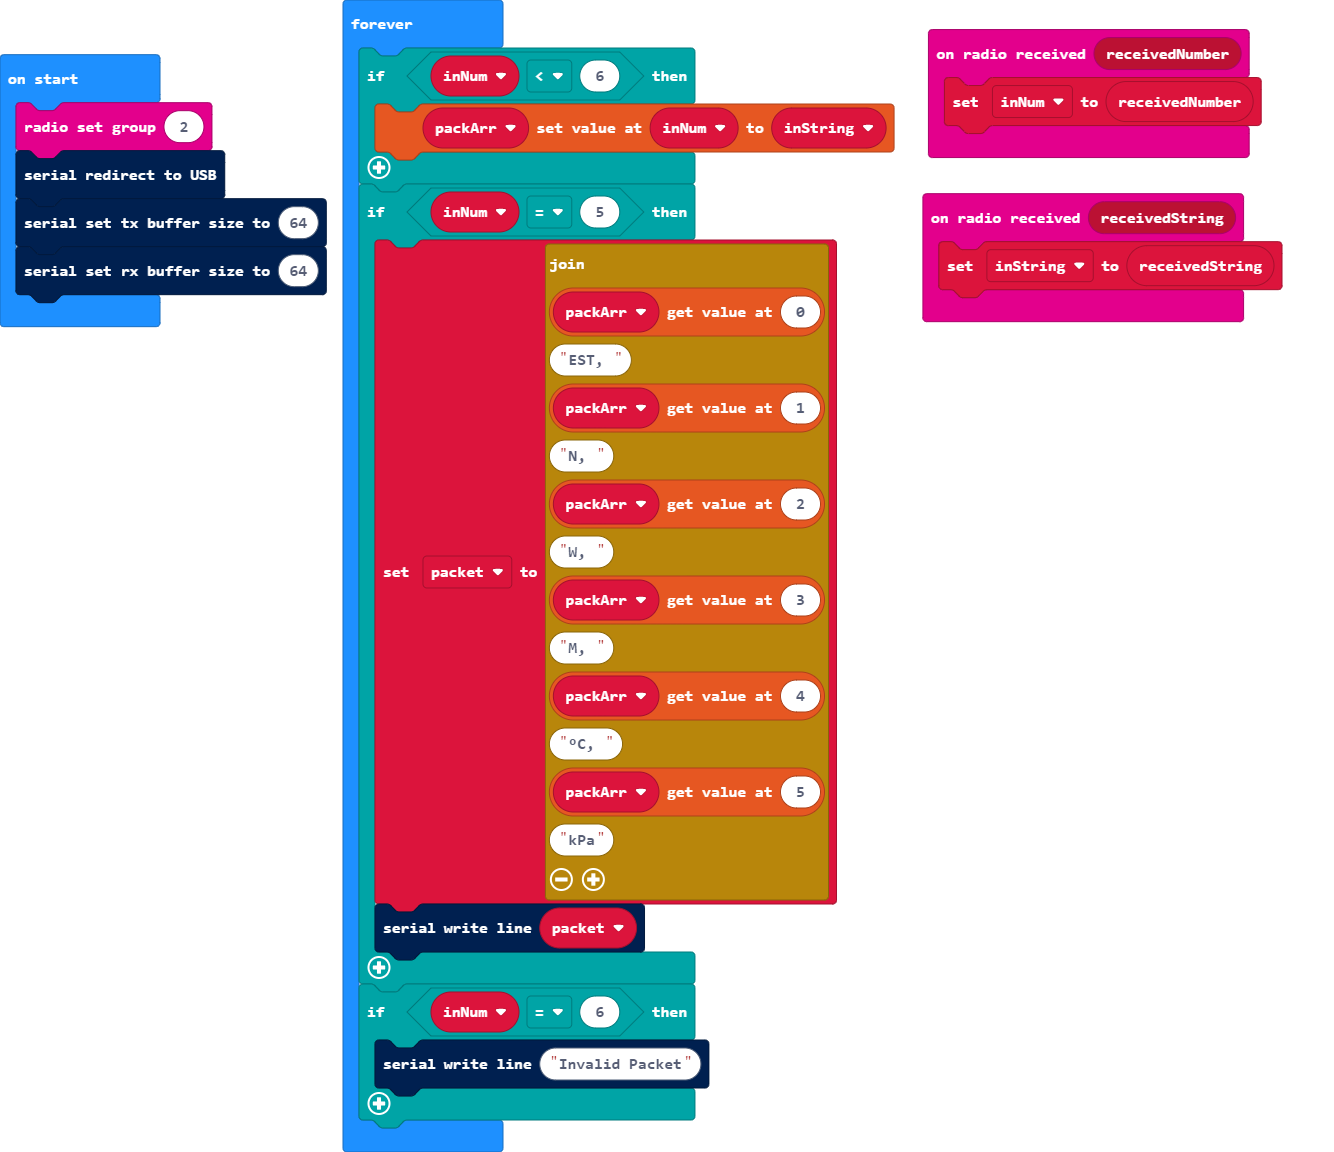
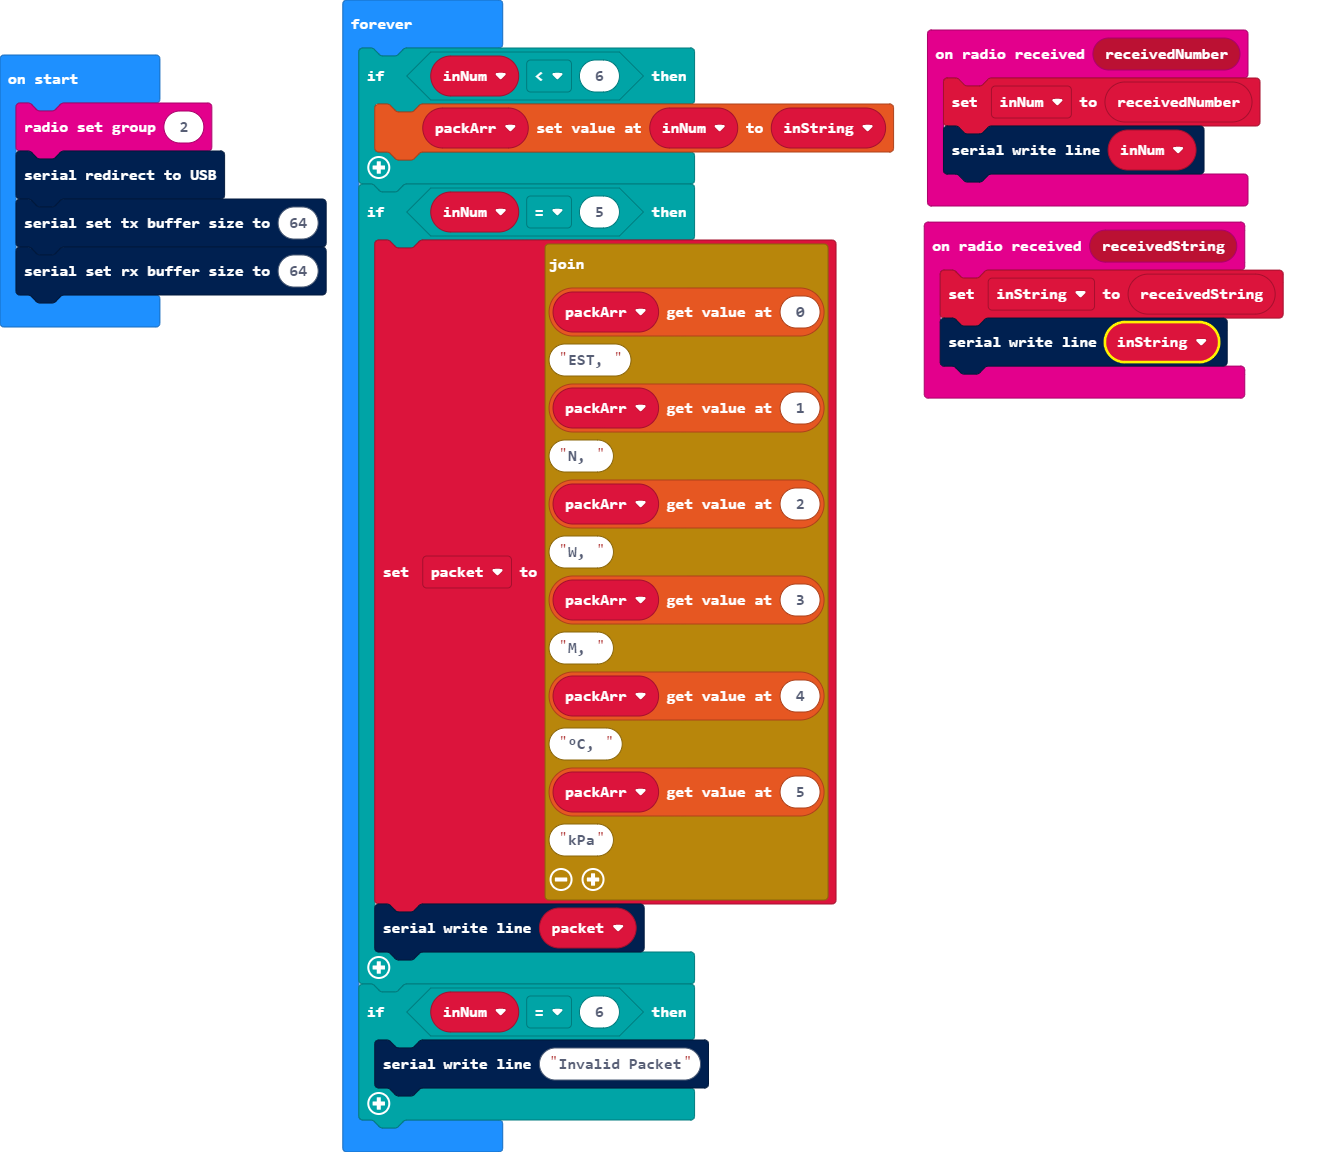
Radio test

diff --git a/main.ts b/main.ts
@@ -1,8 +1,10 @@
 radio.onReceivedNumber(function (receivedNumber) {
     inNum = receivedNumber
+    serial.writeLine("" + (inNum))
 })
 radio.onReceivedString(function (receivedString) {
     inString = receivedString
+    serial.writeLine(inString)
 })
 let packet = ""
 let inString = ""
@@ -12,7 +14,7 @@ serial.redirectToUSB()
 serial.setTxBufferSize(64)
 serial.setRxBufferSize(64)
 basic.forever(function () {
-    let packArr: string[] = []
+    /*let packArr: string[] = []
     if (inNum < 6) {
         packArr[inNum] = inString
     }
@@ -22,5 +24,5 @@ basic.forever(function () {
     }
     if (inNum == 6) {
         serial.writeLine("Invalid Packet")
-    }
+    }*/
 })
